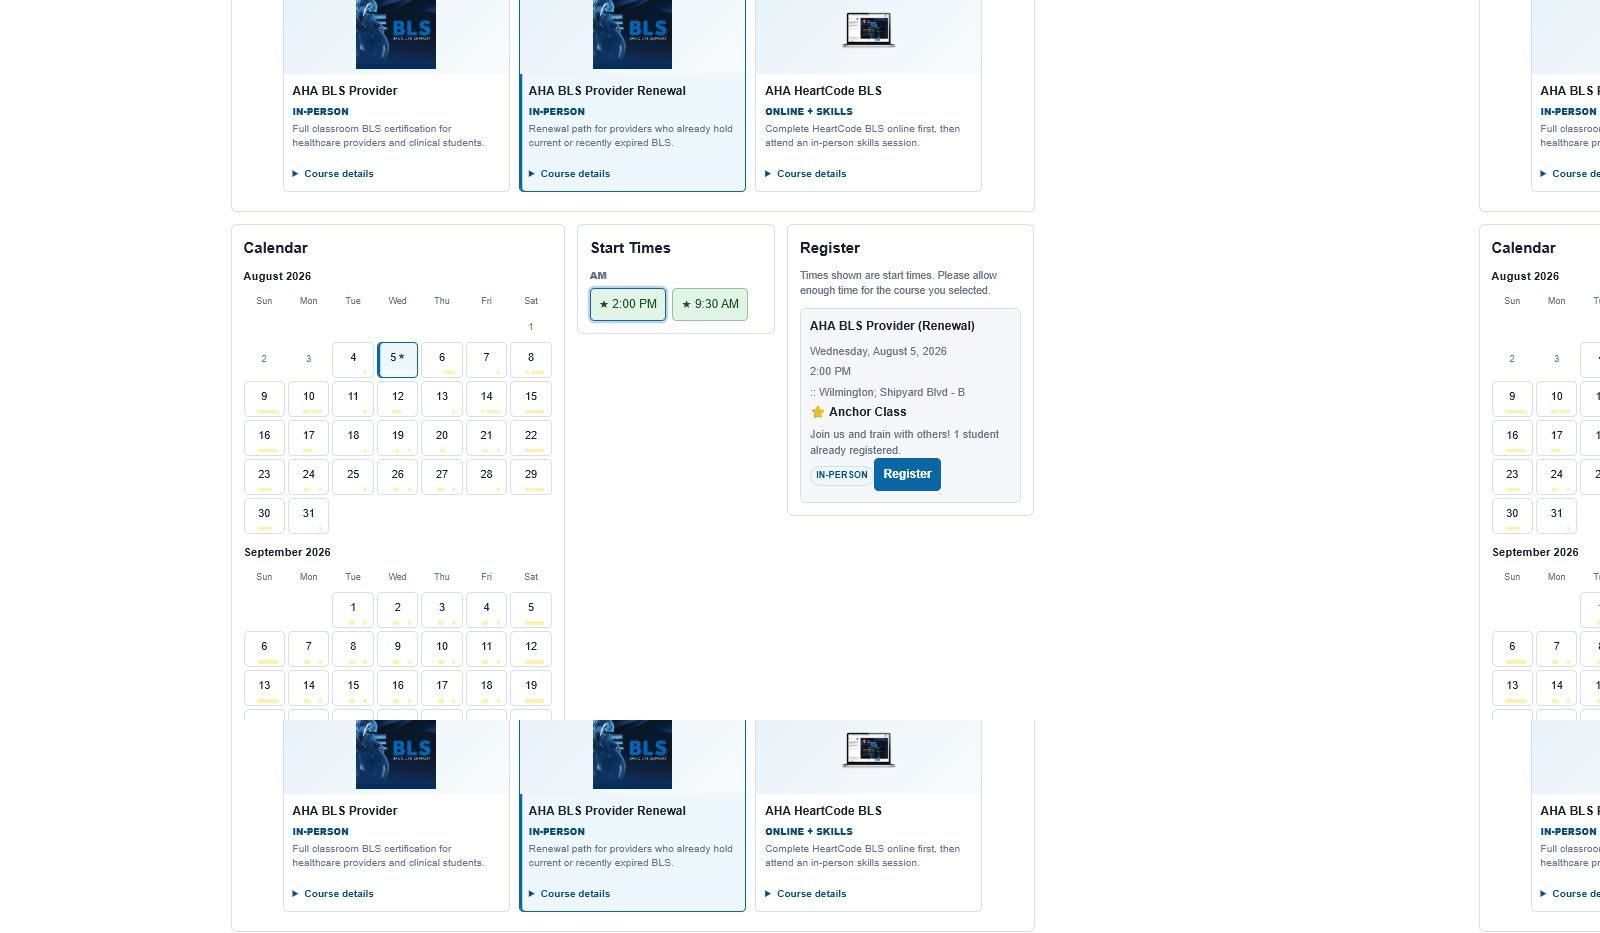
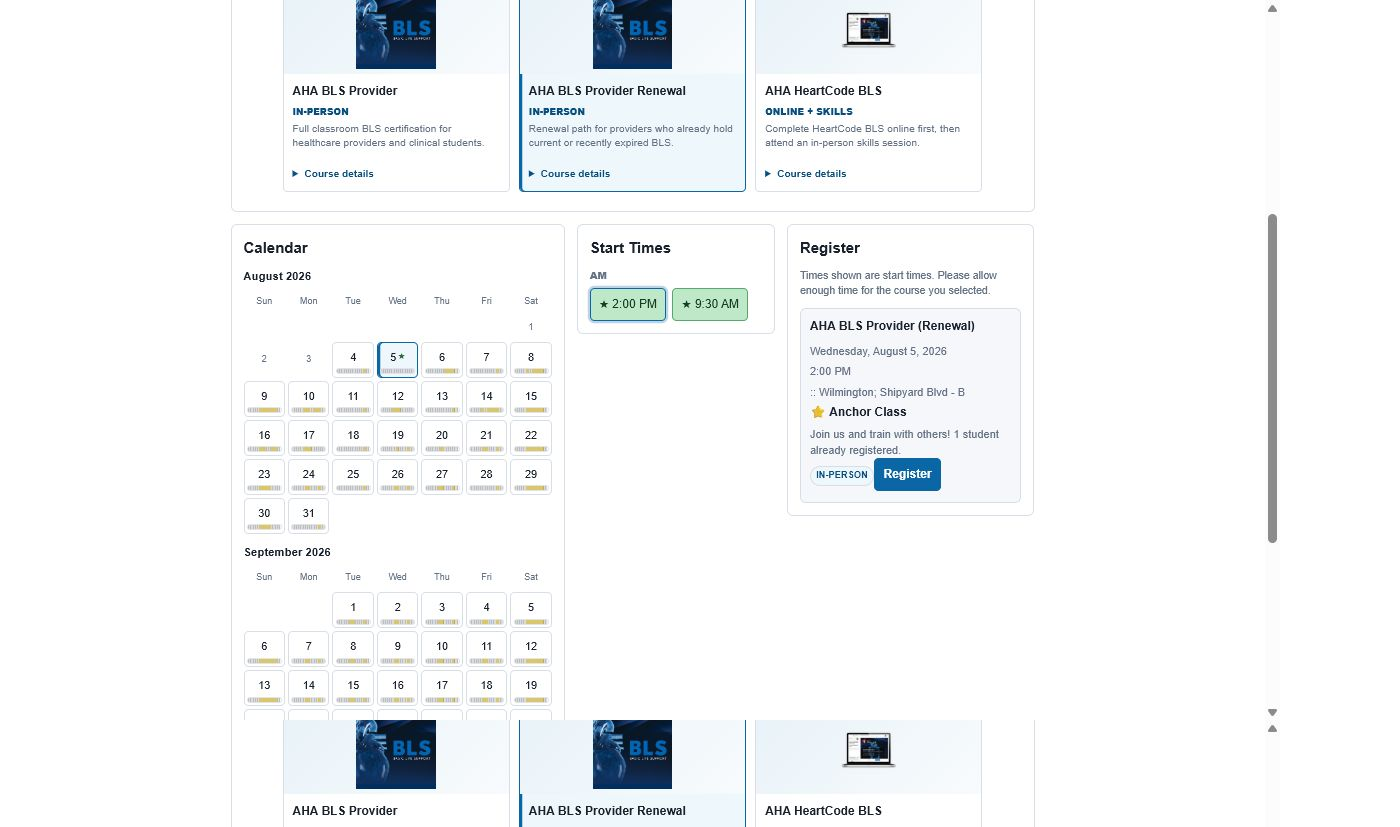
Clarify availability ticks and time shading

diff --git a/docs/acls.html b/docs/acls.html
@@ -436,16 +436,22 @@
       left: 3px;
       right: 3px;
       bottom: 3px;
-      height: 5px;
+      height: 8px;
       display: grid;
       grid-template-columns: repeat(48, minmax(0, 1fr));
       overflow: hidden;
       border-radius: 999px;
-      background: rgba(255,255,255,.72);
+      background: rgba(255,255,255,.88);
+      border: 1px solid rgba(24,33,44,.12);
     }
-    .day-timeline-segment { min-width: 0; background: transparent; }
-    .day-timeline-segment.is-offered { background: #fff1a8; }
-    .day-timeline-segment.is-anchor { background: #9fd5ad; }
+    .day-timeline-segment {
+      min-width: 0;
+      background: transparent;
+      border-right: 1px solid rgba(24,33,44,.16);
+    }
+    .day-timeline-segment:last-child { border-right: 0; }
+    .day-timeline-segment.is-offered { background: #ffe67a; }
+    .day-timeline-segment.is-anchor { background: #72c38a; }
     .day-button.is-past,
     .start-grid button.is-past {
       color: #6b7280;
@@ -482,11 +488,11 @@
       text-align: center;
       justify-content: center;
     }
-    .start-grid button.is-speculative { background: #fff8cf; border-color: #e6d888; }
-    .start-grid button.is-anchor { background: #e1f4e5; border-color: #8ac79a; color: #174f2b; }
+    .start-grid button.is-speculative { background: #ffef9d; border-color: #d5b92f; color: #594700; }
+    .start-grid button.is-anchor { background: #bfe8c9; border-color: #54a96b; color: #123f21; }
     .start-grid button[aria-pressed="true"] { box-shadow: 0 0 0 3px rgba(10,102,165,.28); border-color: var(--accent); }
-    .start-grid button.is-anchor[aria-pressed="true"] { background: linear-gradient(#e1f4e5, #e1f4e5); }
-    .start-grid button.is-speculative[aria-pressed="true"] { background: linear-gradient(#fff8cf, #fff8cf); }
+    .start-grid button.is-anchor[aria-pressed="true"] { background: linear-gradient(#bfe8c9, #bfe8c9); }
+    .start-grid button.is-speculative[aria-pressed="true"] { background: linear-gradient(#ffef9d, #ffef9d); }
     .course {
       border: 1px solid var(--line);
       border-radius: 8px;

diff --git a/docs/arc.html b/docs/arc.html
@@ -436,16 +436,22 @@
       left: 3px;
       right: 3px;
       bottom: 3px;
-      height: 5px;
+      height: 8px;
       display: grid;
       grid-template-columns: repeat(48, minmax(0, 1fr));
       overflow: hidden;
       border-radius: 999px;
-      background: rgba(255,255,255,.72);
+      background: rgba(255,255,255,.88);
+      border: 1px solid rgba(24,33,44,.12);
     }
-    .day-timeline-segment { min-width: 0; background: transparent; }
-    .day-timeline-segment.is-offered { background: #fff1a8; }
-    .day-timeline-segment.is-anchor { background: #9fd5ad; }
+    .day-timeline-segment {
+      min-width: 0;
+      background: transparent;
+      border-right: 1px solid rgba(24,33,44,.16);
+    }
+    .day-timeline-segment:last-child { border-right: 0; }
+    .day-timeline-segment.is-offered { background: #ffe67a; }
+    .day-timeline-segment.is-anchor { background: #72c38a; }
     .day-button.is-past,
     .start-grid button.is-past {
       color: #6b7280;
@@ -482,11 +488,11 @@
       text-align: center;
       justify-content: center;
     }
-    .start-grid button.is-speculative { background: #fff8cf; border-color: #e6d888; }
-    .start-grid button.is-anchor { background: #e1f4e5; border-color: #8ac79a; color: #174f2b; }
+    .start-grid button.is-speculative { background: #ffef9d; border-color: #d5b92f; color: #594700; }
+    .start-grid button.is-anchor { background: #bfe8c9; border-color: #54a96b; color: #123f21; }
     .start-grid button[aria-pressed="true"] { box-shadow: 0 0 0 3px rgba(10,102,165,.28); border-color: var(--accent); }
-    .start-grid button.is-anchor[aria-pressed="true"] { background: linear-gradient(#e1f4e5, #e1f4e5); }
-    .start-grid button.is-speculative[aria-pressed="true"] { background: linear-gradient(#fff8cf, #fff8cf); }
+    .start-grid button.is-anchor[aria-pressed="true"] { background: linear-gradient(#bfe8c9, #bfe8c9); }
+    .start-grid button.is-speculative[aria-pressed="true"] { background: linear-gradient(#ffef9d, #ffef9d); }
     .course {
       border: 1px solid var(--line);
       border-radius: 8px;

diff --git a/docs/bls.html b/docs/bls.html
@@ -436,16 +436,22 @@
       left: 3px;
       right: 3px;
       bottom: 3px;
-      height: 5px;
+      height: 8px;
       display: grid;
       grid-template-columns: repeat(48, minmax(0, 1fr));
       overflow: hidden;
       border-radius: 999px;
-      background: rgba(255,255,255,.72);
+      background: rgba(255,255,255,.88);
+      border: 1px solid rgba(24,33,44,.12);
     }
-    .day-timeline-segment { min-width: 0; background: transparent; }
-    .day-timeline-segment.is-offered { background: #fff1a8; }
-    .day-timeline-segment.is-anchor { background: #9fd5ad; }
+    .day-timeline-segment {
+      min-width: 0;
+      background: transparent;
+      border-right: 1px solid rgba(24,33,44,.16);
+    }
+    .day-timeline-segment:last-child { border-right: 0; }
+    .day-timeline-segment.is-offered { background: #ffe67a; }
+    .day-timeline-segment.is-anchor { background: #72c38a; }
     .day-button.is-past,
     .start-grid button.is-past {
       color: #6b7280;
@@ -482,11 +488,11 @@
       text-align: center;
       justify-content: center;
     }
-    .start-grid button.is-speculative { background: #fff8cf; border-color: #e6d888; }
-    .start-grid button.is-anchor { background: #e1f4e5; border-color: #8ac79a; color: #174f2b; }
+    .start-grid button.is-speculative { background: #ffef9d; border-color: #d5b92f; color: #594700; }
+    .start-grid button.is-anchor { background: #bfe8c9; border-color: #54a96b; color: #123f21; }
     .start-grid button[aria-pressed="true"] { box-shadow: 0 0 0 3px rgba(10,102,165,.28); border-color: var(--accent); }
-    .start-grid button.is-anchor[aria-pressed="true"] { background: linear-gradient(#e1f4e5, #e1f4e5); }
-    .start-grid button.is-speculative[aria-pressed="true"] { background: linear-gradient(#fff8cf, #fff8cf); }
+    .start-grid button.is-anchor[aria-pressed="true"] { background: linear-gradient(#bfe8c9, #bfe8c9); }
+    .start-grid button.is-speculative[aria-pressed="true"] { background: linear-gradient(#ffef9d, #ffef9d); }
     .course {
       border: 1px solid var(--line);
       border-radius: 8px;

diff --git a/docs/heartsaver.html b/docs/heartsaver.html
@@ -436,16 +436,22 @@
       left: 3px;
       right: 3px;
       bottom: 3px;
-      height: 5px;
+      height: 8px;
       display: grid;
       grid-template-columns: repeat(48, minmax(0, 1fr));
       overflow: hidden;
       border-radius: 999px;
-      background: rgba(255,255,255,.72);
+      background: rgba(255,255,255,.88);
+      border: 1px solid rgba(24,33,44,.12);
     }
-    .day-timeline-segment { min-width: 0; background: transparent; }
-    .day-timeline-segment.is-offered { background: #fff1a8; }
-    .day-timeline-segment.is-anchor { background: #9fd5ad; }
+    .day-timeline-segment {
+      min-width: 0;
+      background: transparent;
+      border-right: 1px solid rgba(24,33,44,.16);
+    }
+    .day-timeline-segment:last-child { border-right: 0; }
+    .day-timeline-segment.is-offered { background: #ffe67a; }
+    .day-timeline-segment.is-anchor { background: #72c38a; }
     .day-button.is-past,
     .start-grid button.is-past {
       color: #6b7280;
@@ -482,11 +488,11 @@
       text-align: center;
       justify-content: center;
     }
-    .start-grid button.is-speculative { background: #fff8cf; border-color: #e6d888; }
-    .start-grid button.is-anchor { background: #e1f4e5; border-color: #8ac79a; color: #174f2b; }
+    .start-grid button.is-speculative { background: #ffef9d; border-color: #d5b92f; color: #594700; }
+    .start-grid button.is-anchor { background: #bfe8c9; border-color: #54a96b; color: #123f21; }
     .start-grid button[aria-pressed="true"] { box-shadow: 0 0 0 3px rgba(10,102,165,.28); border-color: var(--accent); }
-    .start-grid button.is-anchor[aria-pressed="true"] { background: linear-gradient(#e1f4e5, #e1f4e5); }
-    .start-grid button.is-speculative[aria-pressed="true"] { background: linear-gradient(#fff8cf, #fff8cf); }
+    .start-grid button.is-anchor[aria-pressed="true"] { background: linear-gradient(#bfe8c9, #bfe8c9); }
+    .start-grid button.is-speculative[aria-pressed="true"] { background: linear-gradient(#ffef9d, #ffef9d); }
     .course {
       border: 1px solid var(--line);
       border-radius: 8px;

diff --git a/docs/hsi.html b/docs/hsi.html
@@ -436,16 +436,22 @@
       left: 3px;
       right: 3px;
       bottom: 3px;
-      height: 5px;
+      height: 8px;
       display: grid;
       grid-template-columns: repeat(48, minmax(0, 1fr));
       overflow: hidden;
       border-radius: 999px;
-      background: rgba(255,255,255,.72);
+      background: rgba(255,255,255,.88);
+      border: 1px solid rgba(24,33,44,.12);
     }
-    .day-timeline-segment { min-width: 0; background: transparent; }
-    .day-timeline-segment.is-offered { background: #fff1a8; }
-    .day-timeline-segment.is-anchor { background: #9fd5ad; }
+    .day-timeline-segment {
+      min-width: 0;
+      background: transparent;
+      border-right: 1px solid rgba(24,33,44,.16);
+    }
+    .day-timeline-segment:last-child { border-right: 0; }
+    .day-timeline-segment.is-offered { background: #ffe67a; }
+    .day-timeline-segment.is-anchor { background: #72c38a; }
     .day-button.is-past,
     .start-grid button.is-past {
       color: #6b7280;
@@ -482,11 +488,11 @@
       text-align: center;
       justify-content: center;
     }
-    .start-grid button.is-speculative { background: #fff8cf; border-color: #e6d888; }
-    .start-grid button.is-anchor { background: #e1f4e5; border-color: #8ac79a; color: #174f2b; }
+    .start-grid button.is-speculative { background: #ffef9d; border-color: #d5b92f; color: #594700; }
+    .start-grid button.is-anchor { background: #bfe8c9; border-color: #54a96b; color: #123f21; }
     .start-grid button[aria-pressed="true"] { box-shadow: 0 0 0 3px rgba(10,102,165,.28); border-color: var(--accent); }
-    .start-grid button.is-anchor[aria-pressed="true"] { background: linear-gradient(#e1f4e5, #e1f4e5); }
-    .start-grid button.is-speculative[aria-pressed="true"] { background: linear-gradient(#fff8cf, #fff8cf); }
+    .start-grid button.is-anchor[aria-pressed="true"] { background: linear-gradient(#bfe8c9, #bfe8c9); }
+    .start-grid button.is-speculative[aria-pressed="true"] { background: linear-gradient(#ffef9d, #ffef9d); }
     .course {
       border: 1px solid var(--line);
       border-radius: 8px;

diff --git a/docs/pals.html b/docs/pals.html
@@ -436,16 +436,22 @@
       left: 3px;
       right: 3px;
       bottom: 3px;
-      height: 5px;
+      height: 8px;
       display: grid;
       grid-template-columns: repeat(48, minmax(0, 1fr));
       overflow: hidden;
       border-radius: 999px;
-      background: rgba(255,255,255,.72);
+      background: rgba(255,255,255,.88);
+      border: 1px solid rgba(24,33,44,.12);
     }
-    .day-timeline-segment { min-width: 0; background: transparent; }
-    .day-timeline-segment.is-offered { background: #fff1a8; }
-    .day-timeline-segment.is-anchor { background: #9fd5ad; }
+    .day-timeline-segment {
+      min-width: 0;
+      background: transparent;
+      border-right: 1px solid rgba(24,33,44,.16);
+    }
+    .day-timeline-segment:last-child { border-right: 0; }
+    .day-timeline-segment.is-offered { background: #ffe67a; }
+    .day-timeline-segment.is-anchor { background: #72c38a; }
     .day-button.is-past,
     .start-grid button.is-past {
       color: #6b7280;
@@ -482,11 +488,11 @@
       text-align: center;
       justify-content: center;
     }
-    .start-grid button.is-speculative { background: #fff8cf; border-color: #e6d888; }
-    .start-grid button.is-anchor { background: #e1f4e5; border-color: #8ac79a; color: #174f2b; }
+    .start-grid button.is-speculative { background: #ffef9d; border-color: #d5b92f; color: #594700; }
+    .start-grid button.is-anchor { background: #bfe8c9; border-color: #54a96b; color: #123f21; }
     .start-grid button[aria-pressed="true"] { box-shadow: 0 0 0 3px rgba(10,102,165,.28); border-color: var(--accent); }
-    .start-grid button.is-anchor[aria-pressed="true"] { background: linear-gradient(#e1f4e5, #e1f4e5); }
-    .start-grid button.is-speculative[aria-pressed="true"] { background: linear-gradient(#fff8cf, #fff8cf); }
+    .start-grid button.is-anchor[aria-pressed="true"] { background: linear-gradient(#bfe8c9, #bfe8c9); }
+    .start-grid button.is-speculative[aria-pressed="true"] { background: linear-gradient(#ffef9d, #ffef9d); }
     .course {
       border: 1px solid var(--line);
       border-radius: 8px;

diff --git a/scripts/build_bls_block_schedule_pilot.py b/scripts/build_bls_block_schedule_pilot.py
@@ -589,16 +589,22 @@ def css() -> str:
       left: 3px;
       right: 3px;
       bottom: 3px;
-      height: 5px;
+      height: 8px;
       display: grid;
       grid-template-columns: repeat(48, minmax(0, 1fr));
       overflow: hidden;
       border-radius: 999px;
-      background: rgba(255,255,255,.72);
+      background: rgba(255,255,255,.88);
+      border: 1px solid rgba(24,33,44,.12);
     }
-    .day-timeline-segment { min-width: 0; background: transparent; }
-    .day-timeline-segment.is-offered { background: #fff1a8; }
-    .day-timeline-segment.is-anchor { background: #9fd5ad; }
+    .day-timeline-segment {
+      min-width: 0;
+      background: transparent;
+      border-right: 1px solid rgba(24,33,44,.16);
+    }
+    .day-timeline-segment:last-child { border-right: 0; }
+    .day-timeline-segment.is-offered { background: #ffe67a; }
+    .day-timeline-segment.is-anchor { background: #72c38a; }
     .day-button.is-past,
     .start-grid button.is-past {
       color: #6b7280;
@@ -635,11 +641,11 @@ def css() -> str:
       text-align: center;
       justify-content: center;
     }
-    .start-grid button.is-speculative { background: #fff8cf; border-color: #e6d888; }
-    .start-grid button.is-anchor { background: #e1f4e5; border-color: #8ac79a; color: #174f2b; }
+    .start-grid button.is-speculative { background: #ffef9d; border-color: #d5b92f; color: #594700; }
+    .start-grid button.is-anchor { background: #bfe8c9; border-color: #54a96b; color: #123f21; }
     .start-grid button[aria-pressed="true"] { box-shadow: 0 0 0 3px rgba(10,102,165,.28); border-color: var(--accent); }
-    .start-grid button.is-anchor[aria-pressed="true"] { background: linear-gradient(#e1f4e5, #e1f4e5); }
-    .start-grid button.is-speculative[aria-pressed="true"] { background: linear-gradient(#fff8cf, #fff8cf); }
+    .start-grid button.is-anchor[aria-pressed="true"] { background: linear-gradient(#bfe8c9, #bfe8c9); }
+    .start-grid button.is-speculative[aria-pressed="true"] { background: linear-gradient(#ffef9d, #ffef9d); }
     .course {
       border: 1px solid var(--line);
       border-radius: 8px;
